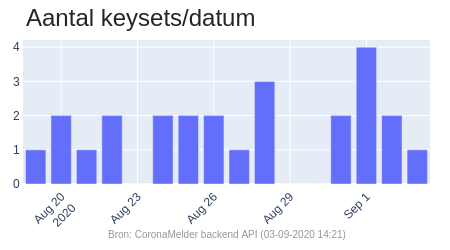
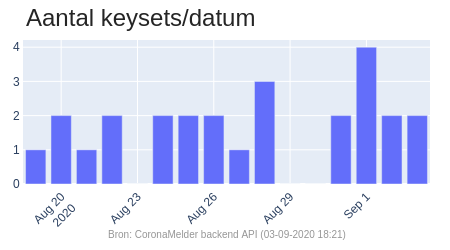
fetch run 2020-09-02

Changed region(s): [[0.9022, 0.448, 0.9644, 0.616], [0.7156, 0.924, 0.7467, 0.952]]

diff --git a/keys/d3dd935d/index.html b/keys/d3dd935d/index.html
@@ -44,34 +44,35 @@
 
 <p>&nbsp;</p>
 
-<h2> Statistieken </h2>
-<h4>  </h4>
+<h2> Keyset d3dd935d </h2>
+<h4> </h4>
 
+  
+    
+  <table class="table table-striped table-sm">
+      <tr>
+          <td><b>key</b></td><td>d3dd935d644ea32586cfa170f1d85802e408af85f5f5e3c8679fdd0abbfc085f</td>
+      </tr><tr>
+          <td><b>aantal TEKs</b></td><td>150</td>
+      </tr><tr>
+          <td><b>timewindow start</b></td><td>2020-09-02 16:00:00 CEST</td>
+      </tr><tr>
+          <td><b>timewindow einde</b></td><td>2020-09-03 16:00:00 CEST</td>
+      </tr><tr>
+          <td><b>opgehaald</b></td><td>2020-09-03</td>
+      </tr><tr>
+          <td colspan="2"><h4>TRL</h4></td>
+      </tr><tr>
+          <td><b>Transmission Risk Level 1 aantal</b></td><td>47</td>
+      </tr><tr>
+          <td><b>Transmission Risk Level 2 aantal</b></td><td>49</td>
+      </tr><tr>
+          <td><b>Transmission Risk Level 3 aantal</b></td><td>54</td>
+      </tr>
+  </table>
 
-
-<div class="row">
-    <div class="col-sm-4">
-        <div class="card border-dark mb-3" style="width: 22rem;">
-        <div class="card-header"> Keysets </div>
-        <div class="card-body">
-            <ul class="list-group list-group-flush">
-                <li class="list-group-item">Totaal aantal keysets: 26</li>
-                <li class="list-group-item">begin - eind</li>
-                <li class="list-group-item">Vestibulum at eros</li>
-            </ul>
-            <p class="card-text"> </p>
-        </div> <!-- card-body -->
-        <div class="card-footer">
-            <small class="text-muted">Last updated 3 September 2020 18:21 </small>
-        </div> <!-- footer -->
-      </div> <!-- card -->
-    </div> <!-- col -->
-    <div class="col-sm-4">
-       <img src="/static/keyset_freq_date.png" alt="keyset_freq_date">
-    </div> <!-- col -->
-
-</div> <!-- row -->
-
+  
+  
 
 
 

diff --git a/keys/index.html b/keys/index.html
@@ -64,6 +64,10 @@
       </tr>
     
       <tr>
+          <td><a href="d3dd935d/">d3dd935d<a/></td><td>150</td><td>2020-09-02 16:00:00 CEST - 2020-09-03 16:00:00 CEST</td><td>2020-09-03</td>
+      </tr>
+    
+      <tr>
           <td><a href="4f418f71/">4f418f71<a/></td><td>150</td><td>2020-09-01 12:00:01 CEST - 2020-09-02 12:00:01 CEST</td><td>2020-09-02</td>
       </tr>
     

diff --git a/datastore/2020-09-03/index.html b/datastore/2020-09-03/index.html
@@ -56,6 +56,14 @@
   
 
   
+    <li><a href="/datastore/2020-09-03/d3dd935d.dat">d3dd935d.dat</a></li>
+  
+
+  
+    <li><a href="/datastore/2020-09-03/d3dd935d.trl_stats.json">d3dd935d.trl_stats.json</a></li>
+  
+
+  
     <li><a href="/datastore/2020-09-03/start_timestamp_value_counts.json">start_timestamp_value_counts.json</a></li>
   
 
